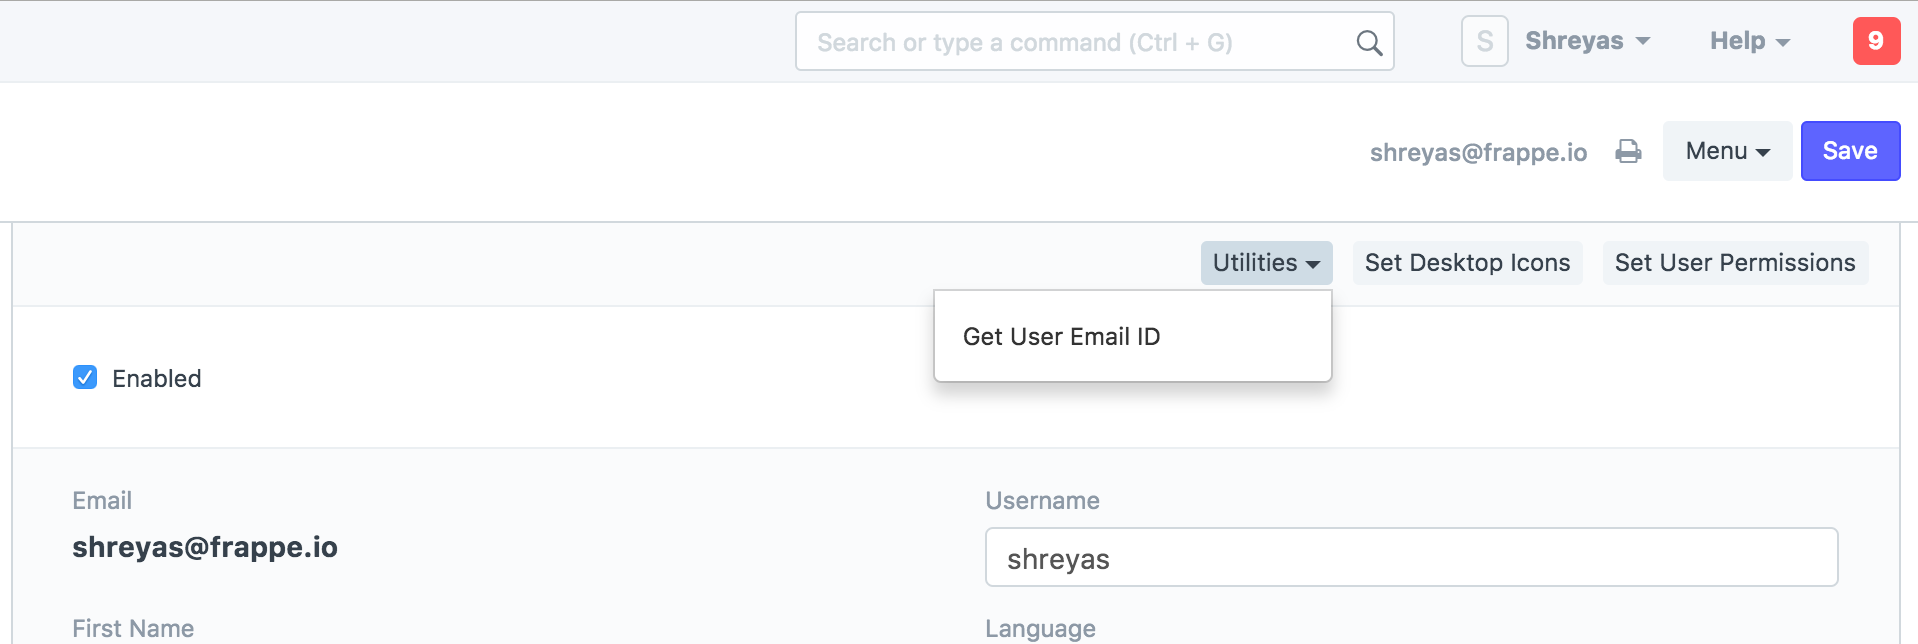
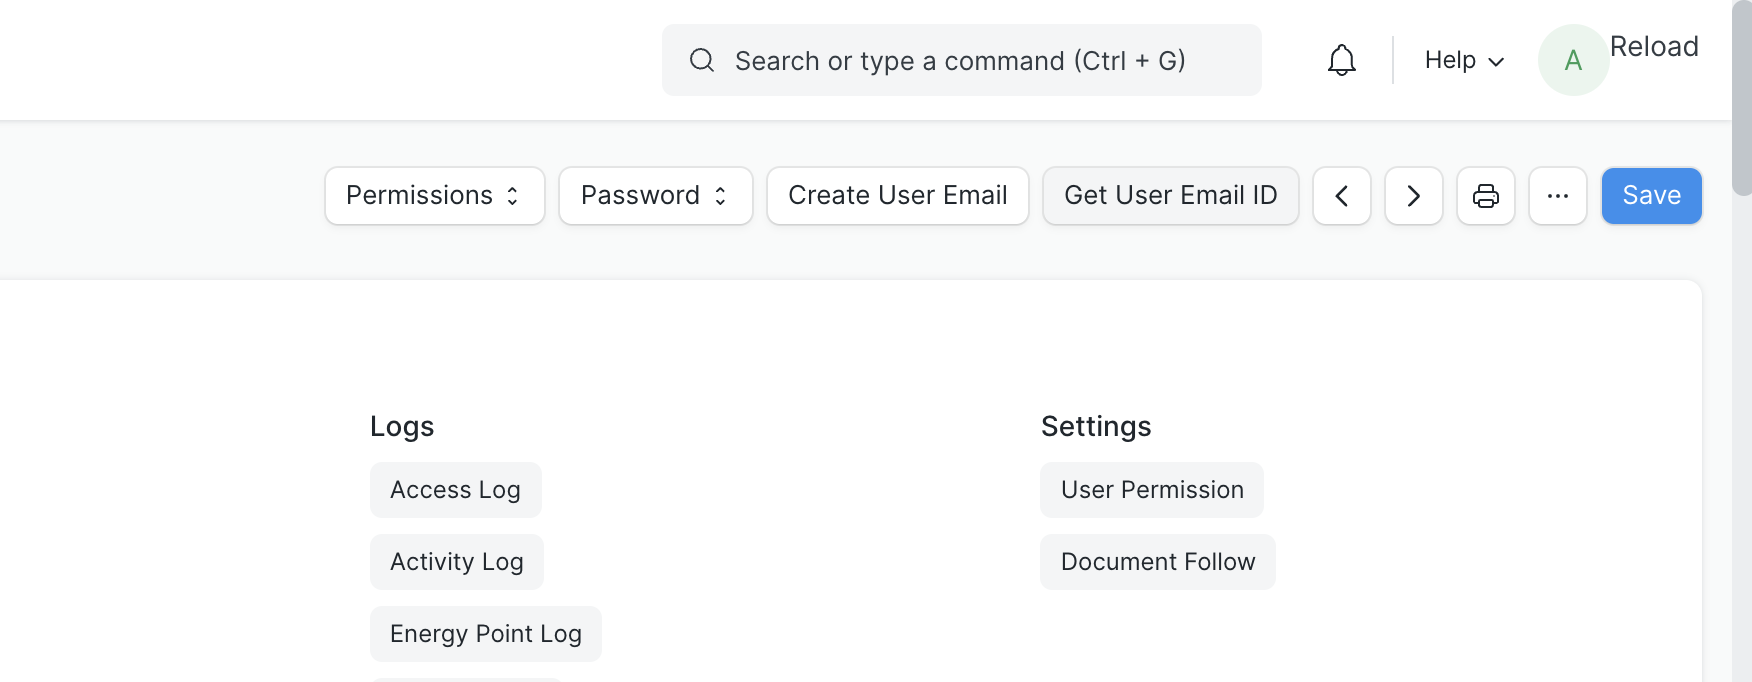
docs: Added custom button example for user forms

diff --git a/frappe_docs/www/docs/user/en/guides/app-development/adding-custom-button-to-form.md b/frappe_docs/www/docs/user/en/guides/app-development/adding-custom-button-to-form.md
@@ -14,7 +14,25 @@ In this file, you need to write a new method `add_custom_button` which should ad
 We should edit `frappe\core\doctype\user\user.js`
 
     frappe.ui.form.on('User', {
-    	refresh: function(frm) {
+        refresh: function(frm) {
+        ...
+          frm.add_custom_button(__('Get User Email Address'), function(){
+            frappe.msgprint(frm.doc.email);
+        });
+        ...
+      }
+    });
+
+You should be seeing a button on user form as shown below.
+
+<img class="screenshot" alt="Custom Button" src="/docs/assets/img/app-development/add_custom_button.png">
+
+
+#### Example-1: Adding a button group to User form
+We should edit `frappe\core\doctype\user\user.js`
+
+    frappe.ui.form.on('User', {
+        refresh: function(frm) {
         ...
           frm.add_custom_button(__('Get User Email Address'), function(){
             frappe.msgprint(frm.doc.email);
@@ -23,9 +41,9 @@ We should edit `frappe\core\doctype\user\user.js`
       }
     });
 
-You should be seeing a button on user form as shown below,
+You should be seeing a button group on user form as shown below.
 
-<img class="screenshot" alt="Custom Button" src="/docs/assets/img/app-development/add_custom_button.png">
+<img class="screenshot" alt="Custom Button" src="/docs/assets/img/app-development/add_custom_button_group.png">
 
 
 <!-- markdown -->
